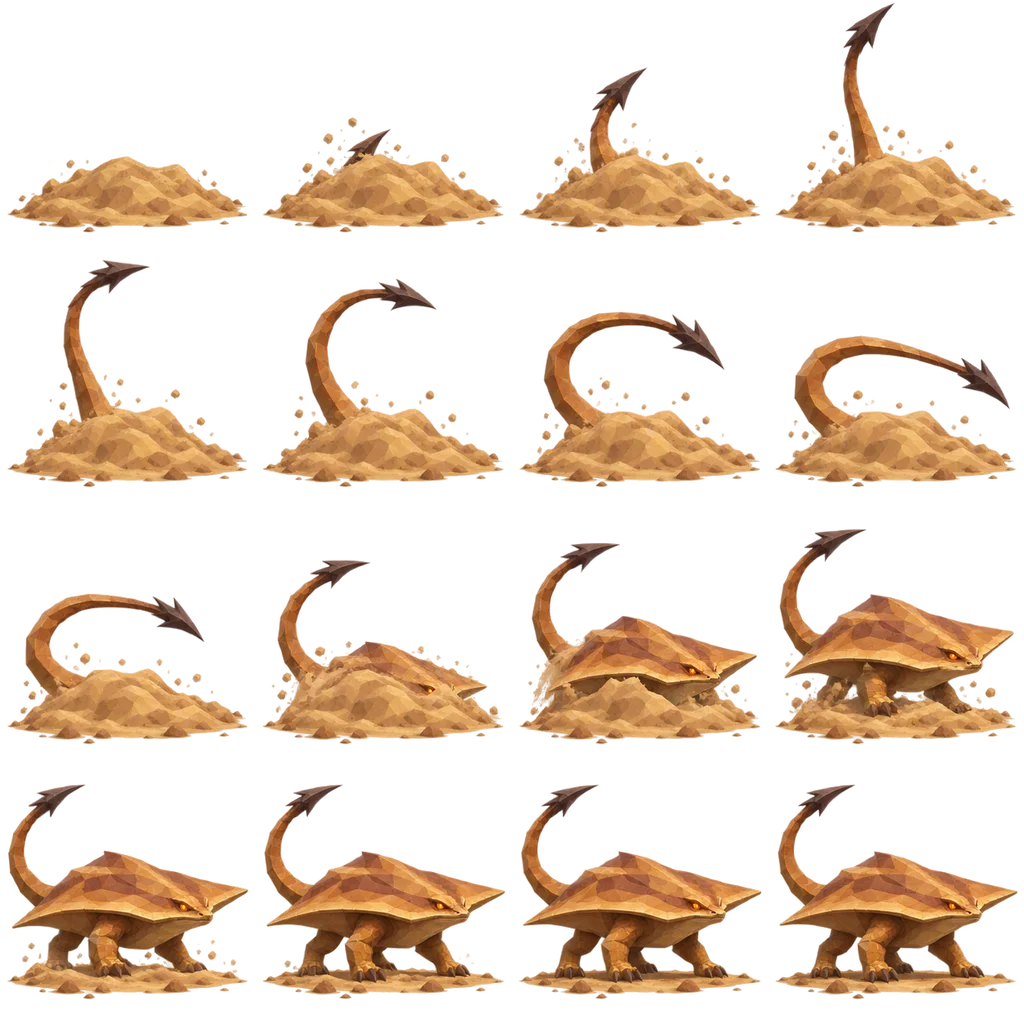
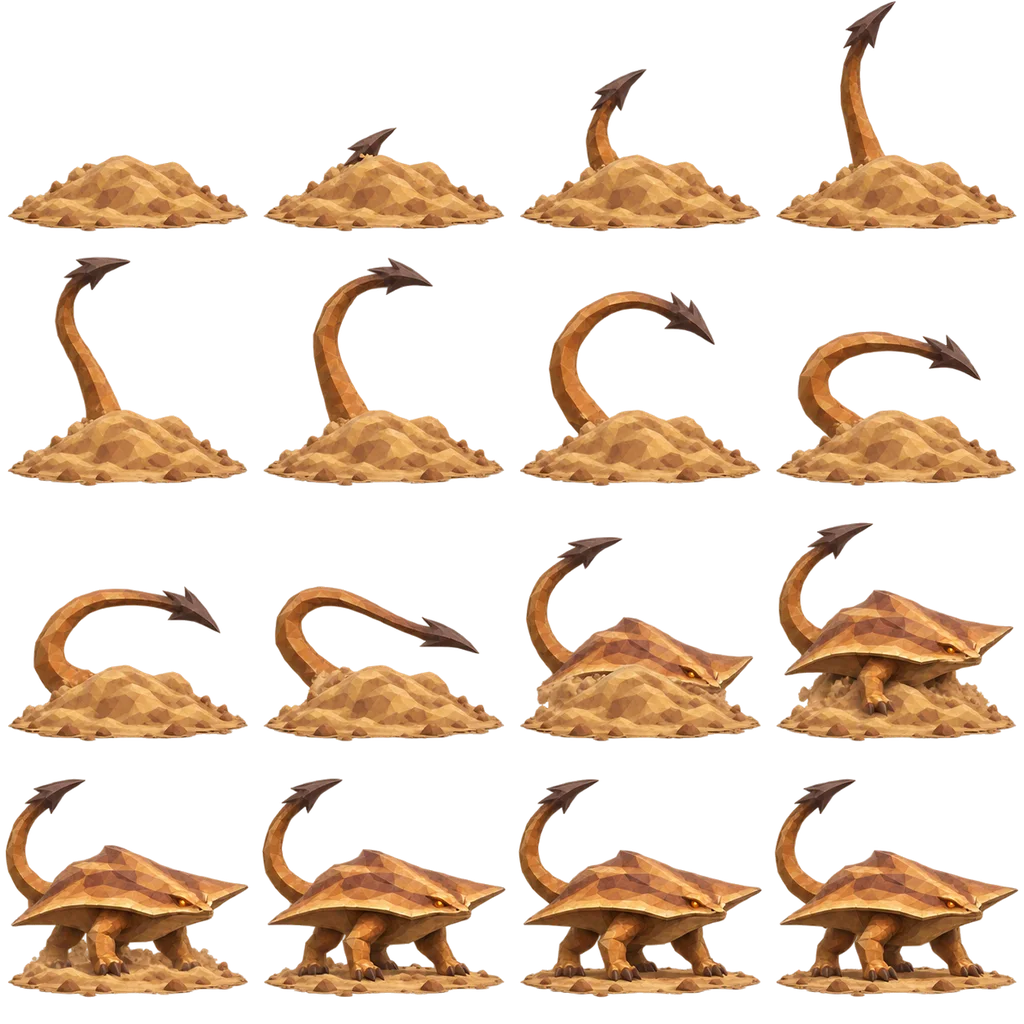
Remake Land Ray’s frames with a visible pre-strike tail wag

diff --git a/assets/land-ray.js b/assets/land-ray.js
@@ -1,10 +1,11 @@
 (()=>{
   const art=new Image();
-  art.src="./assets/land-ray-frames.webp?v=0.289.0";
+  art.src="./assets/land-ray-frames.webp?v=0.289.4";
   const CELL=256, SIZE=330;
-  const DURATION=4275, IMPACT=1915;
-  const POSE_TIMES=[0,1400,1540,1680,1830,1855,1880,IMPACT,2665,2835,3005,3175,3355,3525,3695,3895];
-  const TAIL_REACH=[0,0,0,0,0,.13,.34,.57,.26];
+  const DURATION=5175, IMPACT=2815;
+  const POSE_TIMES=[0,1400,1540,1690,1830,1980,2130,2280,2430,2580,2730,2775,IMPACT,3565,3795,4000,4230,4460,4690];
+  const POSES=[0,1,2,3,4,5,6,5,4,5,7,8,9,10,11,12,13,14,15];
+  const TAIL_REACH={7:.12,8:.37,9:.73};
   const clamp=n=>Math.max(0,Math.min(1,n));
 
   function frame(g,pose,x,y,size,dir,anchorY,reach=0){
@@ -41,7 +42,7 @@
   }
 
   function draw(g,elapsed,dir,target){
-    const pose=Math.max(0,POSE_TIMES.findLastIndex(ms=>elapsed>=ms));
+    const pose=POSES[Math.max(0,POSE_TIMES.findLastIndex(ms=>elapsed>=ms))];
     const scale=.60+.30*clamp((target.y-288)/235);
     const size=SIZE*scale;
     const x=target.x-dir*size*.62,y=target.y+size*.09;

diff --git a/index.html b/index.html
@@ -1,1 +1,1 @@
-<!doctype html><html lang="en"><head><meta charset="utf-8"><meta name="viewport" content="width=device-width,initial-scale=1"><title>Wizardry : The Fall of Lupen’s Kingdom</title><meta http-equiv="refresh" content="0;url=./arena.html?v=0.289.3"><script>const query=new URLSearchParams(location.search);query.set('v','0.289.3');location.replace('./arena.html?'+query+location.hash);</script></head><body><a href="./arena.html?v=0.289.3">Enter Wizardry</a></body></html>
+<!doctype html><html lang="en"><head><meta charset="utf-8"><meta name="viewport" content="width=device-width,initial-scale=1"><title>Wizardry : The Fall of Lupen’s Kingdom</title><meta http-equiv="refresh" content="0;url=./arena.html?v=0.289.4"><script>const query=new URLSearchParams(location.search);query.set('v','0.289.4');location.replace('./arena.html?'+query+location.hash);</script></head><body><a href="./arena.html?v=0.289.4">Enter Wizardry</a></body></html>

diff --git a/arena.js b/arena.js
@@ -173,7 +173,7 @@
     description:"A hovering solar warrior hurls a blazing sun at one enemy for 650 base Fire damage. 45% chance of Extreme Burn: 100 damage per turn for 5 turns."});
   CARDS.push({id:"landray",name:"Land Ray",school:"earth",cost:5,target:"enemy",
     kind:"damage",damage:400,accuracy:.90,stunChance:.20,icon:"◆",rarity:"RARE",
-    duration:4275,hit:1915/4275,
+    duration:5175,hit:2815/5175,
     description:"A buried land ray strikes one enemy with its barbed tail for 400 base Earth damage. 20% chance to Shock and skip their pending action this round."});
   for(const card of CARDS)if(['static','soul','freezing','scorpion','bloom','gunpowderkiss','thornwrap','blizzard','penguins','frosty','jack','dragon','arrows','grillmaster','reaper','turbulence'].includes(card.id)){
     card.description=card.description.replace(/Reapplying refreshes[^.]*\.|Refreshes[^.]*\./g,'');

diff --git a/arena.html b/arena.html
@@ -300,8 +300,8 @@
 <script src="./assets/water-prison.js?v=0.286.1" defer></script>
 <script src="./assets/lightning-field.js?v=0.287.0" defer></script>
 <script src="./assets/sunfire.js?v=0.288.0" defer></script>
-<script src="./assets/land-ray.js?v=0.289.3" defer></script>
-<script src="./arena.js?v=0.289.3" defer></script>
+<script src="./assets/land-ray.js?v=0.289.4" defer></script>
+<script src="./arena.js?v=0.289.4" defer></script>
 <script src="./assets/menu-music.js?v=0.282.2" defer></script>
 <script src="./assets/wizard-home-v135.js?v=0.284.9" defer></script>
 <dialog id="battleLogPanel" aria-labelledby="battleLogTitle">
